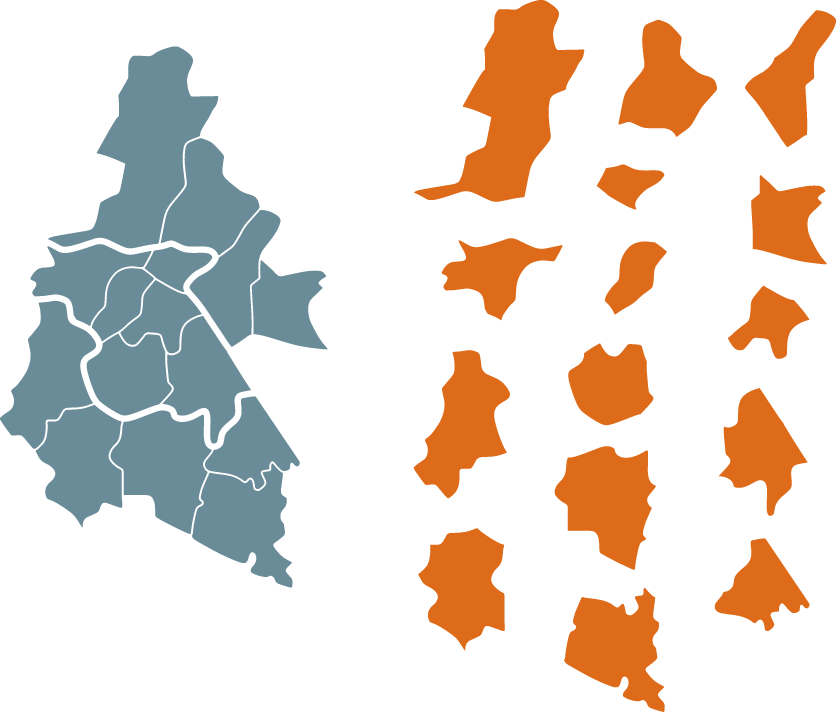
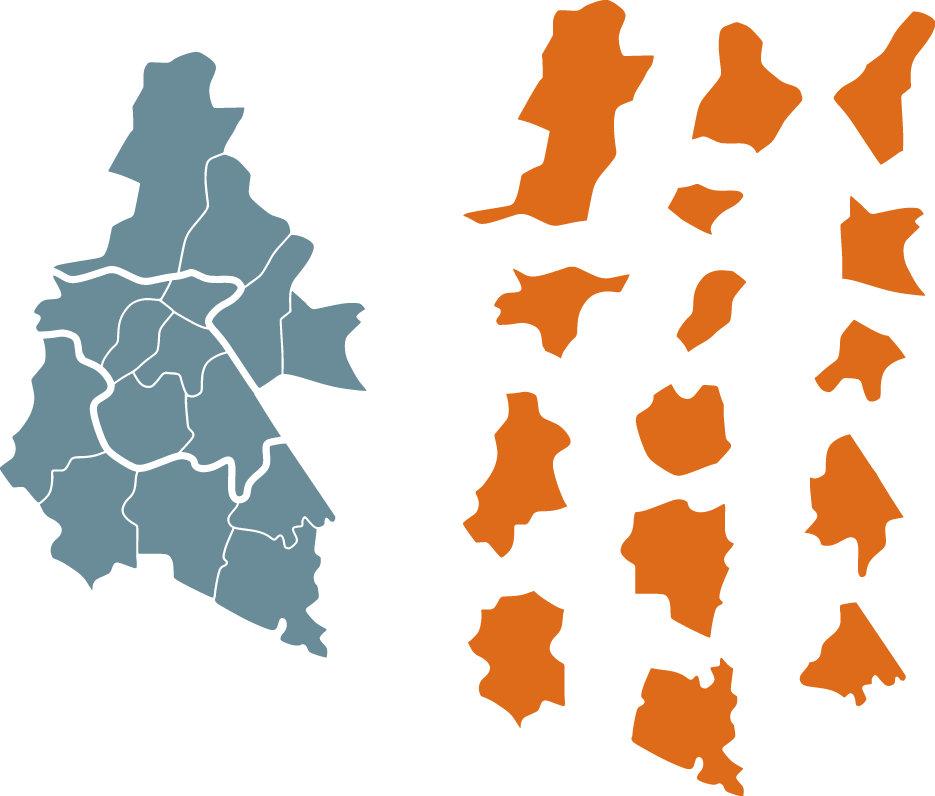
Finishing regional page

diff --git a/public/stylesheets/style.css b/public/stylesheets/style.css
@@ -182,15 +182,17 @@ ul.human-body, ul.regional-map {
 }
 
 ul.human-body {
-    width: 600px;
+    width: 500px;
     height: 440px;
     background: url(/images/human-body.png) no-repeat 0 0;
+    margin: 0px auto;
 }
 
 ul.regional-map {
     width: 400px;
-    height: 600px;
-	background: url(/images/regional.png) no-repeat 0 0;
+    height: 700px;
+    background: url(/images/regional.png) no-repeat 0 0;
+    margin: -30px auto 0px;
 }
 
 ul.human-body li, ul.regional-map li{
@@ -229,6 +231,10 @@ ul.human-body li a:hover span, ul.regional-map li a:hover span {
     z-index: 1;
 }
 
+ul.regional-map li a:hover span {
+    left: 50%;
+}
+
 ul.human-body li a:hover span strong, ul.regional-map li a:hover span strong {
     display: block;
 	margin-bottom: 2px;
@@ -251,11 +257,33 @@ ul.human-body li a:hover span strong, ul.regional-map li a:hover span strong {
 /* Regional Page */
 
 ul.regional-map li.north-cimahi a:hover {
-    background-position: -406px 46px;
+    background-position: -456px 24px;
 }
 
 .north-cimahi {
-    width: 180px; height: 250px; left: 40px;
+    width: 200px;
+    height: 250px;
+    top: 28px;
+    left: 46px;
+}
+
+.sub-body {
+    margin-bottom: 20px;
+}
+
+.sub-title {
+    margin-right: 15px;
+    font-weight: 600;
+}
+
+.data-table {
+    width: 100%;
+    margin-top: 10px;
+}
+
+.data-table tr th, .data-table tr td {
+    border: 1px solid #ffffff;
+    padding: 5px;
 }
 
 /* Responsive Settings */
